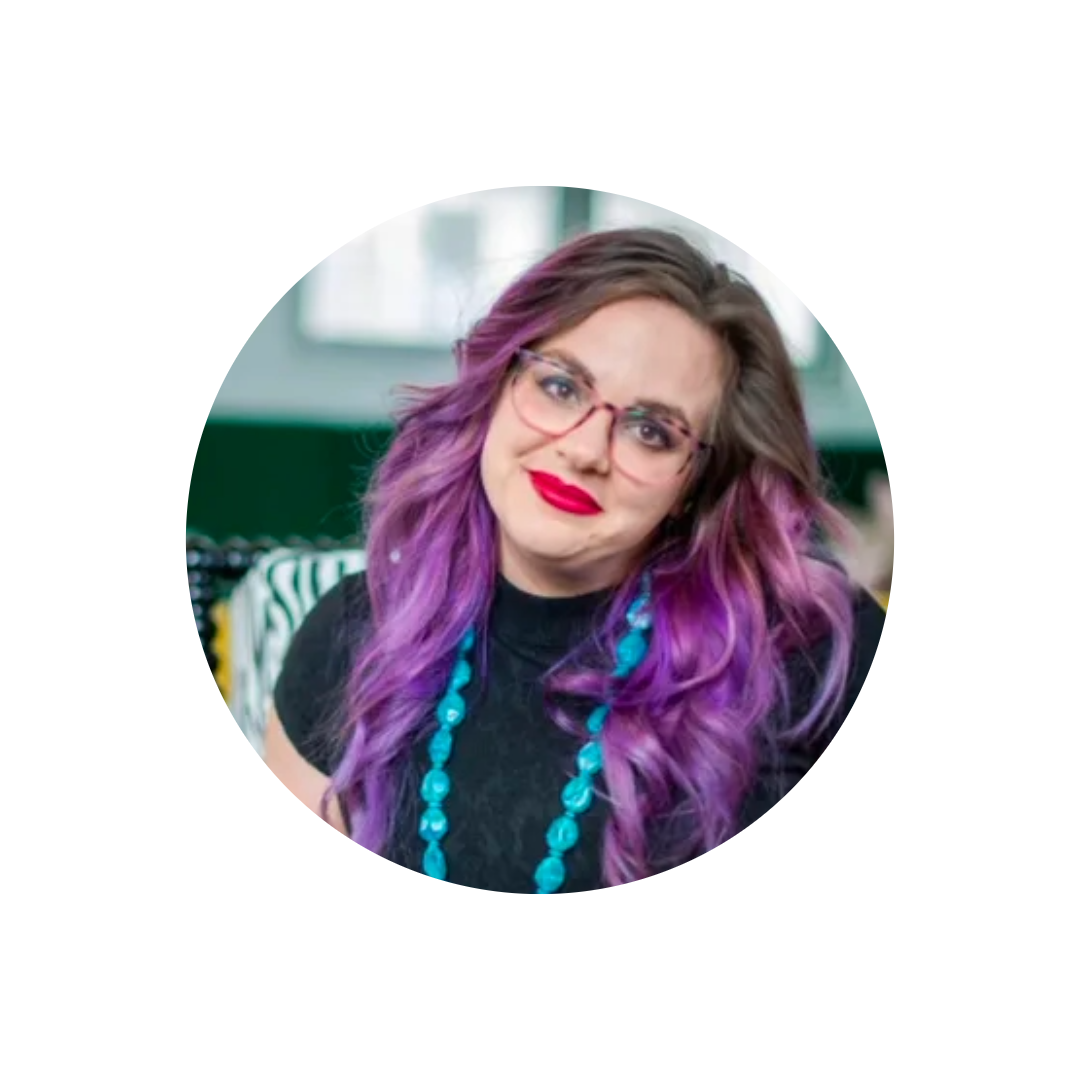
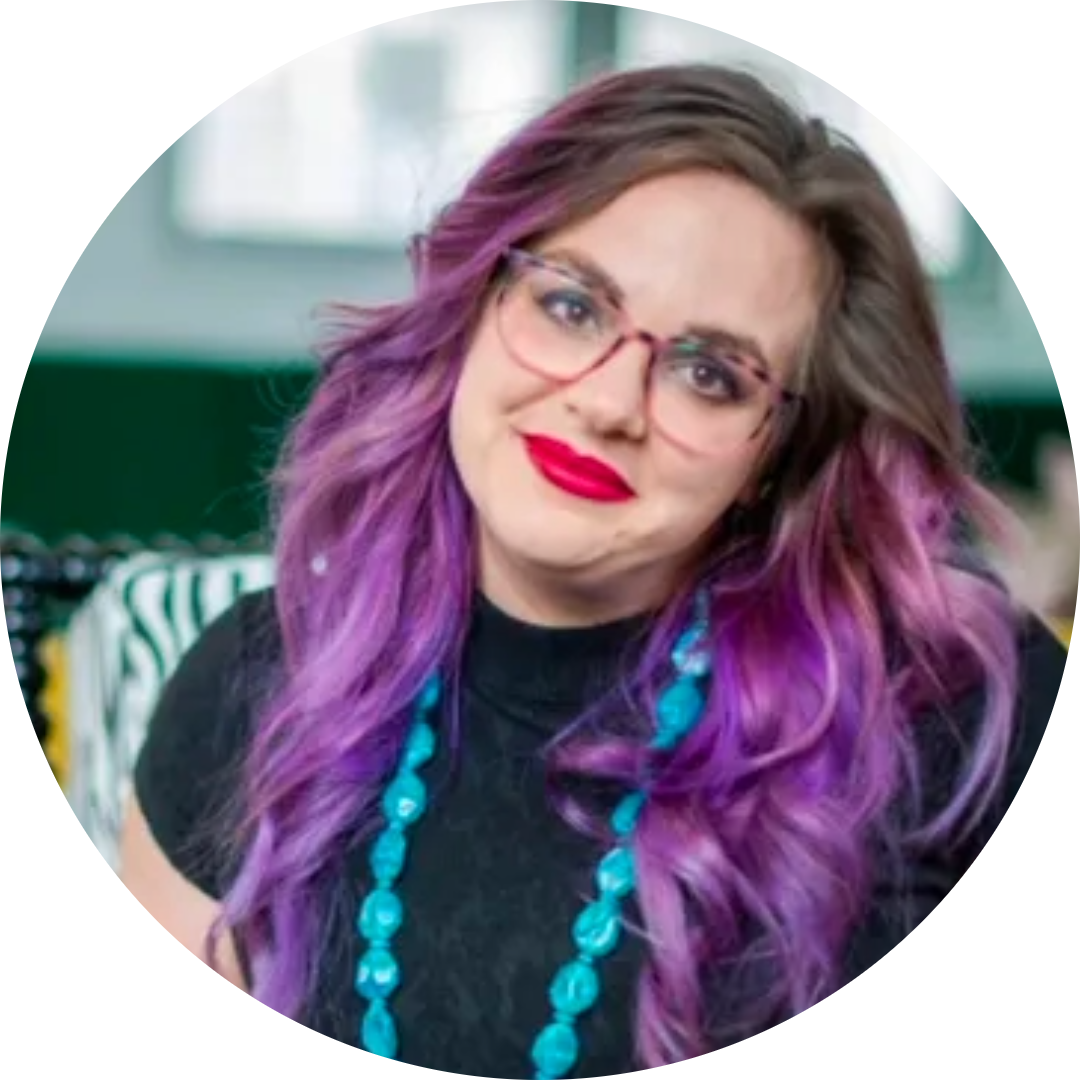
Fixed About Us
I have fixed the resolution of each images, aligned them horizontally, and also added an extra element to the right side.

diff --git a/src/pages/Home/Home.css b/src/pages/Home/Home.css
@@ -111,6 +111,12 @@ body {
     font-size: 2rem;
 }
 
+.about-bgd-image-container {
+    position: absolute;
+    right: -150px;
+    max-width: 600px;
+    z-index: -2;
+}
 .about-section-wrapper {
     margin-top: 15rem;
 }
@@ -128,9 +134,9 @@ body {
     flex-direction: column;
 }
 .about-section-info {
-    width: 290px;
+    width: 300px;
     min-height: 350px;
-    background-color: white;
+    background-color: #56d48e;
     padding: 1rem 2rem;
     display: flex;
     flex-direction: column;
@@ -142,9 +148,11 @@ body {
     margin: 1rem 2rem;
 }
 .about-section-info h2 {
-    margin: 1rem 0rem;
+    margin: 1.5rem 0rem;
+    font-weight: 600;
+    font-size: x-large;
 }
-.work-section-bottom {
+.about-section-bottom {
     margin-top: 5rem;
     display: flex;
     justify-content: center;
@@ -155,7 +163,7 @@ body {
     flex: 1;
     display: flex;
     align-items: center;
-    font-weight: 600;
+    font-weight: 500;
 }
   
 
@@ -217,7 +225,8 @@ body {
 }
 @media (max-width: 600px) {
     .home-bannerImage-container,
-    .intro-background-image-container {
+    .intro-background-image-container,
+    .about-bgd-image-container {
       display: none;
     }
 }

diff --git a/src/pages/Home/About.js b/src/pages/Home/About.js
@@ -2,6 +2,7 @@ import React from "react";
 import asop_Keyatta_img1 from "../../assets/home/asop_Keyatta_img1.png";
 import asop_Rori_img1 from "../../assets/home/asop_Rori_img1.png";
 import asop_Stephanie_img1 from "../../assets/home/asop_Stephanie_img1.png";
+import about_bgd from "../../assets/home/about_bgd.png";
 
 const About = () => {
     const AboutInfo = [
@@ -23,6 +24,10 @@ const About = () => {
     ];
     return (
         <div className="about-section-wrapper">
+            <div className="about-bgd-image-container">
+                <img src={about_bgd} alt="" />
+            </div>
+
             <div className="about-section-top">
                 <h1 className="primary-heading">About Us</h1>
             </div>
